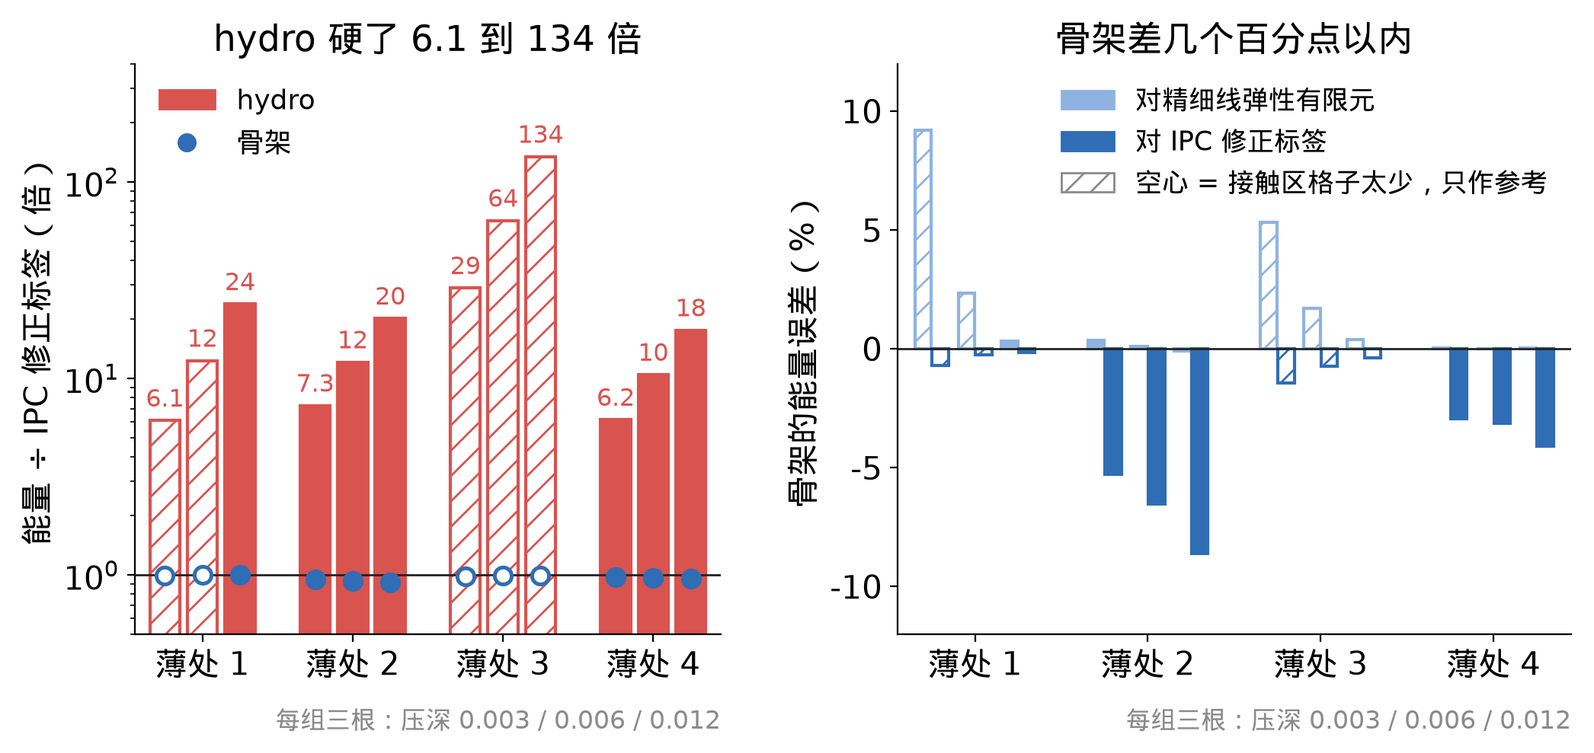
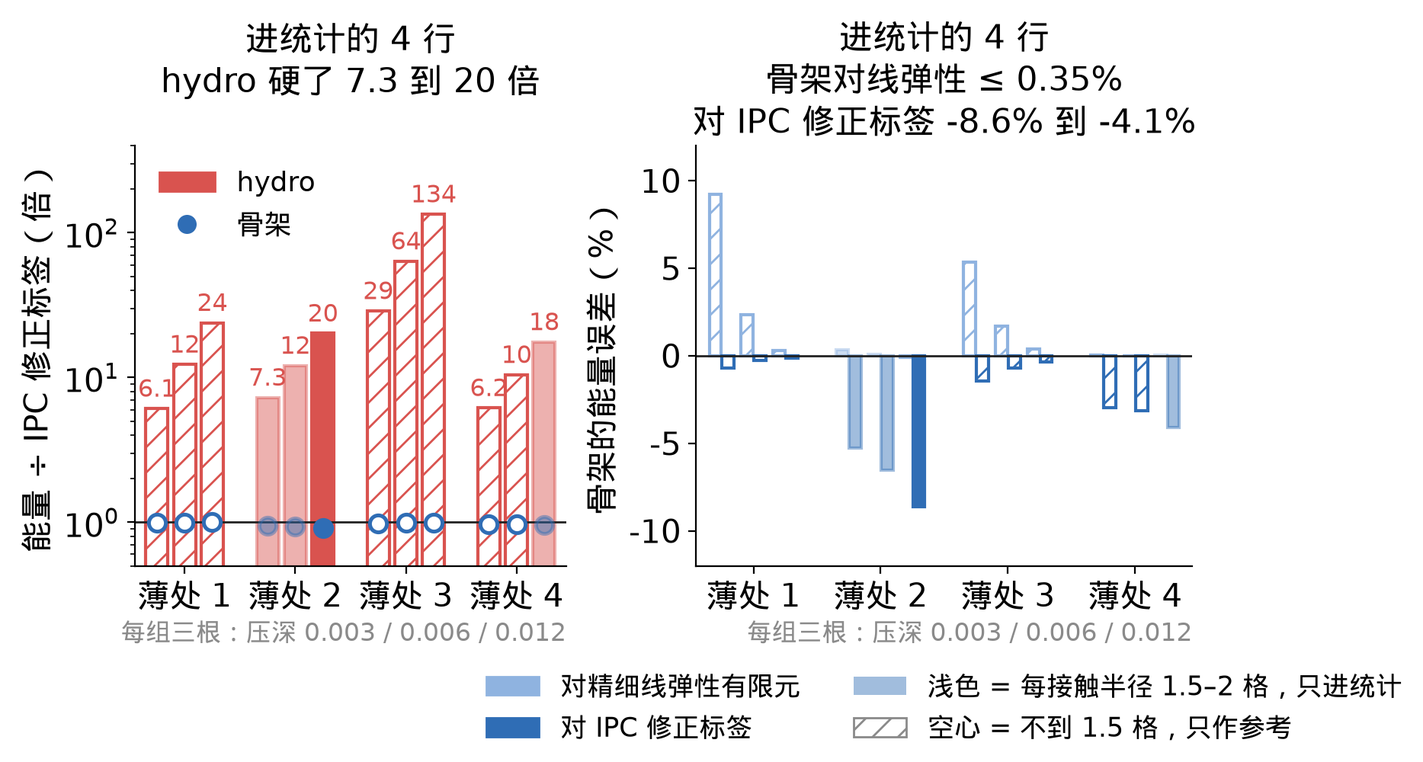
week5: option-C row sets (28 conclusion rows incl. near-double; 47-row stats sentence), regenerated error-bar and dragon figures; rebuilt from sandbox web_week5.md 96ca4af8+

Changed region(s): [[0.0, 0.0303, 0.9941, 0.9707], [0.9009, 0.2123, 0.963, 0.273]]

diff --git a/week5.html b/week5.html
@@ -82,6 +82,8 @@ article .kp { font-weight: 600; color: var(--key); }
 p.concl { color: var(--good); }
 p.expect { color: var(--accent); }
 p.setting { font-size: 13px; }
+.note-src { color: #0d8a7a; }    /* 【ref】【无 ref】【我们定的】整行：出处（draft_md，用户 11-05） */
+.note-cond { color: #c2570c; }   /* 【条件】整行：公式成立的前提 */
 .muted { color: var(--muted); }
 .small { font-size: 13px; }
 blockquote { font-size: 13px; line-height: 1.85; margin: 12px 0 32px; padding: 4px 18px; border-left: 3px solid #b5cbe5;
@@ -240,7 +242,7 @@ html.annot-on #annot-capture { display: block; }
   html.annot-fixed pre, html.annot-fixed mjx-container[display="true"] { overflow: visible; }
 }
 </style>
-<script>window.NIPC_PAGE = "d704f61d9b30";</script>
+<script>window.NIPC_PAGE = "62f501388ee5";</script>
 <script>window.MathJax = {tex: {inlineMath: [["\\(", "\\)"]], displayMath: [["\\[", "\\]"]]}, svg: {fontCache: "global"}};</script>
 <script src="https://cdn.jsdelivr.net/npm/mathjax@3.2.2/es5/tex-svg.js" async></script>
 <a class="skip" href="#content">跳转到正文</a><div id="progress" aria-hidden="true"></div>
@@ -273,7 +275,7 @@ html.annot-on #annot-capture { display: block; }
 <a class="toc-level-2" href="#w6">6. 接下来</a></nav></details></aside><main id="content"><div class="eyebrow">NEURAL-IPC <span>·</span> WEEKLY REPORT</div><article>
 <header class="top"><h1>Week 5（TODO 2026-10-26）</h1><p class="summary">普通形状（兔子、龙）数据集 49 个构型；在兔子上验证骨架（含整体让开项）对线弹性与 IPC 标签、对比 hydro；模型每一步公式的出处（力学、机械、图形学）；理想 test case。</p></header>
 <div class="lead"><p>这周的 TODO 有四条：用普通形状（不对称的，比如兔子）做数据集；用这些形状验证架构，跟 baseline 比；查文献，看模型里的公式有多少是已知的；整理理想情况下的 test case。</p>
-<p>先说结论。数据集做好了，四类一共 49 个构型。架构在兔子上是对的：骨架和精细线弹性有限元、和 IPC 修正标签都差 1% 左右（中位数），hydro 和 IPC 修正标签差 50% 以上。hydro 差的原因也找到了：它本质上是一床弹簧垫，能量随压深涨的速度跟真实物体不一样，所以调参救不回来。模型里的公式大部分有出处，我们自己定的只有几条。能写出精确答案的理想情况，骨架测过的都对上了。</p></div>
+<p>先说结论。数据集做好了，四类一共 49 个构型。架构在兔子上是对的：骨架和精细线弹性有限元、和 IPC 修正标签都差 1% 左右（中位数），hydro 和 IPC 修正标签差 40% 以上。hydro 差的原因也找到了：它本质上是一床弹簧垫，能量随压深涨的速度跟真实物体不一样，所以调参救不回来。模型里的公式大部分有出处，我们自己定的只有几条。能写出精确答案的理想情况，骨架测过的都对上了。</p></div>
 <section id="w1"><h2>普通形状的数据集</h2>
 <p>数据分四类，从简单到复杂排，后一类只比前一类多一个难点，这样哪里出问题能看出来是哪一步带进来的。每个构型压三个深度：0.003、0.006、0.012。</p>
 <div class="tablewrap"><table>
@@ -346,23 +348,23 @@ html.annot-on #annot-capture { display: block; }
 <tbody>
 <tr>
 <td>骨架 vs 精细线弹性有限元</td>
-<td>约 0.7%</td>
-<td>2.2%</td>
+<td>约 0.6%</td>
+<td>1.5%</td>
 </tr>
 <tr>
 <td>骨架 vs IPC 修正标签</td>
 <td>约 0.8%</td>
-<td>20.1%</td>
+<td>5.3%</td>
 </tr>
 <tr>
 <td>hydro vs IPC 修正标签</td>
-<td>约 53%</td>
+<td>约 43%</td>
 <td>943%</td>
 </tr>
 </tbody>
 </table></div>
-<p>统计的是兔子压平块、压球、压兔子里的 54 行（去掉接触格太少、两处接触和接近两处接触的行），兔子压龙不在内。</p>
-<figure style="margin:12px 0"><img src="assets/images/w5t_w5_error_bars.png" width="1525" height="1057" style="width:606px;max-width:100%;height:auto" alt="柱子是能量误差的中位数，短横是最大值，纵轴是对数；最右一组是全部 54 行。骨架不管跟精细线弹性有限元比，还是跟比值修正后的 IPC 标签比，中位数都在 1% 左右；hydro 的中位数是 53%，最坏的一行大了 943%。IPC 标签是我们自己造的，和 hydro 比的正式裁判是解析解（第 5 节），这张图里 hydro 那一栏只作参照。" loading="lazy"><figcaption class="small">柱子是能量误差的中位数，短横是最大值，纵轴是对数；最右一组是全部 54 行。骨架不管跟精细线弹性有限元比，还是跟比值修正后的 IPC 标签比，中位数都在 1% 左右；hydro 的中位数是 53%，最坏的一行大了 943%。IPC 标签是我们自己造的，和 hydro 比的正式裁判是解析解（第 5 节），这张图里 hydro 那一栏只作参照。</figcaption></figure>
+<p>统计的是兔子压平块、压球、压兔子里够格下结论的 28 行：线弹性参照在每个接触半径上至少有 2 个格子，含两处接触挨得很近的行，不含确定是两处接触的行；兔子压龙不在内。放宽到每个接触半径至少 1.5 个格子（47 行），三个中位数是 0.6%、0.8%、51%；骨架对 IPC 修正标签的最大值变成 20.1%，出在一处又薄又会转的地方深压，那一行只有 1.7 个格子。</p>
+<figure style="margin:12px 0"><img src="assets/images/w5t_w5_error_bars.png" width="1587" height="1037" style="width:643px;max-width:100%;height:auto" alt="柱子是进结论的 28 行（含两处接触挨得很近的行）的能量误差中位数，短横是最大值，纵轴是对数；最右一组是这 28 行合起来。前三组里每一行另画一个点：实心是每个接触半径有 2 个以上格子、进结论的行，空心是 1.5–2 个格子、只进统计的行，灰叉是不到 1.5 个格子、不进统计的行。骨架不管跟精细线弹性有限元比，还是跟比值修正后的 IPC 标签比，中位数都在 1% 左右；hydro 的中位数是 43%，最坏的一行大了 943%。IPC 标签是我们自己造的，和 hydro 比的正式裁判是解析解（第 5 节），这张图里 hydro 那一栏只作参照。" loading="lazy"><figcaption class="small">柱子是进结论的 28 行（含两处接触挨得很近的行）的能量误差中位数，短横是最大值，纵轴是对数；最右一组是这 28 行合起来。前三组里每一行另画一个点：实心是每个接触半径有 2 个以上格子、进结论的行，空心是 1.5–2 个格子、只进统计的行，灰叉是不到 1.5 个格子、不进统计的行。骨架不管跟精细线弹性有限元比，还是跟比值修正后的 IPC 标签比，中位数都在 1% 左右；hydro 的中位数是 43%，最坏的一行大了 943%。IPC 标签是我们自己造的，和 hydro 比的正式裁判是解析解（第 5 节），这张图里 hydro 那一栏只作参照。</figcaption></figure>
 <p>骨架本身是线性的。它和 IPC 之间剩下的那一点差，来自大变形，差得最多的是又薄又会转的地方。以后网络要学的就是这一小块。</p>
 <h3 id="w2-4">hydro 为什么不行</h3>
 
@@ -377,8 +379,8 @@ html.annot-on #annot-capture { display: block; }
 </ol></details>
 <p>真实的厚物体（Hertz）是 2.5 次方。hydro 只有一个参数可以调，调参只能把整条曲线放大缩小，改不了次方，所以怎么调都对不上。</p>
 <figure style="margin:12px 0"><img src="assets/images/w5t_w5_energy_powers.png" width="1478" height="1173" style="width:529px;max-width:100%;height:auto" alt="同一个球越压越深，三种模型给的能量画在双对数坐标里，所以次方就是斜率。绿线是真实的厚物体（Hertz）\(\tfrac{8}{15}E^*\sqrt R\,\delta^{5/2}\)，斜率 2.5；蓝线是弹簧垫 \(\pi kR/3\cdot\delta^3\)，红线是 hydro \(\pi kR/6\cdot\delta^3\)，两条斜率都是 3，压得越深涨得比真实越快。两条灰虚线是 hydro 的 k 乘 100、除 100：整条线只上下平移，斜率还是 3，所以调 k 只能在一个压深上对上。图里的 R、E*、k 是为了画出形状取的示意值，不是实测。" loading="lazy"><figcaption class="small">同一个球越压越深，三种模型给的能量画在双对数坐标里，所以次方就是斜率。绿线是真实的厚物体（Hertz）\(\tfrac{8}{15}E^*\sqrt R\,\delta^{5/2}\)，斜率 2.5；蓝线是弹簧垫 \(\pi kR/3\cdot\delta^3\)，红线是 hydro \(\pi kR/6\cdot\delta^3\)，两条斜率都是 3，压得越深涨得比真实越快。两条灰虚线是 hydro 的 k 乘 100、除 100：整条线只上下平移，斜率还是 3，所以调 k 只能在一个压深上对上。图里的 R、E*、k 是为了画出形状取的示意值，不是实测。</figcaption></figure>
-<p>薄的地方 hydro 差得最多：兔子压在龙身上薄的那块（兔子压龙第二批 4 个构型），龙那边的变形几乎都在离接触点很远的地方，是整块在动，hydro 只看重叠区，看不到这部分，结果硬了 6 到 134 倍。骨架有整体那一项，和线弹性参照比，能进结论的行只差千分之一以内；和 IPC 修正标签比差 0.2%–8.6%，剩下的是大变形。</p>
-<figure style="margin:12px 0"><img src="assets/images/w5t_w5_dragon_thin.png" width="2092" height="989" style="width:888px;max-width:100%;height:auto" alt="兔子压在龙身上很薄的四个地方，每处压三个深度。左图是能量除以 IPC 修正标签的倍数：骨架（蓝点）都贴在 1 上，hydro（红柱）是 6 到 134 倍，压得越深差得越多。原因是薄的地方变形主要在离接触点很远的地方，整块在动，hydro 只看两物体的重叠区，看不到这部分。右图把骨架的误差放大来看：对精细线弹性大多在千分之几，对 IPC 标签在 9% 以内，剩下的主要是大变形。斜线空心的柱是接触区格子太少的行，只作参考。" loading="lazy"><figcaption class="small">兔子压在龙身上很薄的四个地方，每处压三个深度。左图是能量除以 IPC 修正标签的倍数：骨架（蓝点）都贴在 1 上，hydro（红柱）是 6 到 134 倍，压得越深差得越多。原因是薄的地方变形主要在离接触点很远的地方，整块在动，hydro 只看两物体的重叠区，看不到这部分。右图把骨架的误差放大来看：对精细线弹性大多在千分之几，对 IPC 标签在 9% 以内，剩下的主要是大变形。斜线空心的柱是接触区格子太少的行，只作参考。</figcaption></figure>
+<p>薄的地方 hydro 差得最多：兔子压在龙身上薄的那块（兔子压龙第二批 4 个构型），龙那边的变形几乎都在离接触点很远的地方，是整块在动，hydro 只看重叠区，看不到这部分，结果硬了 6 到 134 倍。这批线弹性参照的格子偏粗：12 行里只有 1 行每个接触半径有 2 个以上格子、能进结论，3 行有 1.5–2 个格子、只进统计，其余 8 行只作参考。在这 4 行上，骨架有整体那一项，和线弹性参照只差 0.4% 以内，和 IPC 修正标签差 4.1%–8.6%，剩下的是大变形；hydro 硬了 7 到 20 倍。</p>
+<figure style="margin:12px 0"><img src="assets/images/w5t_w5_dragon_thin.png" width="1867" height="1000" style="width:784px;max-width:100%;height:auto" alt="兔子压在龙身上很薄的四个地方，每处压三个深度。左图是能量除以 IPC 修正标签的倍数：骨架（蓝点）都贴在 1 上，hydro（红柱）是 6 到 134 倍，压得越深差得越多。原因是薄的地方变形主要在离接触点很远的地方，整块在动，hydro 只看两物体的重叠区，看不到这部分。右图把骨架的误差放大来看：对精细线弹性大多在千分之几，对 IPC 标签在 9% 以内，剩下的主要是大变形。实心的是每个接触半径有 2 个以上格子、能进结论的行（1 行），浅色的是 1.5–2 个格子、只进统计的行（3 行），斜线空心的是不到 1.5 个格子、只作参考的行（8 行）。" loading="lazy"><figcaption class="small">兔子压在龙身上很薄的四个地方，每处压三个深度。左图是能量除以 IPC 修正标签的倍数：骨架（蓝点）都贴在 1 上，hydro（红柱）是 6 到 134 倍，压得越深差得越多。原因是薄的地方变形主要在离接触点很远的地方，整块在动，hydro 只看两物体的重叠区，看不到这部分。右图把骨架的误差放大来看：对精细线弹性大多在千分之几，对 IPC 标签在 9% 以内，剩下的主要是大变形。实心的是每个接触半径有 2 个以上格子、能进结论的行（1 行），浅色的是 1.5–2 个格子、只进统计的行（3 行），斜线空心的是不到 1.5 个格子、只作参考的行（8 行）。</figcaption></figure>
 <h3 id="w2-5">动态</h3>
 
 <p>让软球带着速度撞平块。撞得够慢的话，动能会全部变成接触能，最大压深跟速度的关系是 \(v^{2/n}\)，n 是能量的次方。真实情况 n = 2.5，应该是 \(v^{0.8}\)。我们测出来是 \(v^{0.7994}\)。hydro 的 n = 3，理论上是 \(v^{0.667}\)（把 hydro 实际的能量曲线代进能量守恒，算出来是 \(v^{0.655}\)），所以换一个速度，hydro 的误差就会变。</p>
@@ -386,10 +388,10 @@ html.annot-on #annot-capture { display: block; }
 <section id="w3"><h2>哪些公式是已知的：我们方法的推导</h2>
 <p>模型里的每一步都查了出处，直接标在那一步的公式下面，标法统一如下：</p>
 <ul>
-<li><strong>【ref】</strong>：有出处，直接写出是哪篇文献、哪个式子。</li>
-<li><strong>【无 ref】</strong>：没找到出处，写它是从哪一步、用什么推出来的。</li>
-<li><strong>【我们定的】</strong>：建模时我们自己做的选择，写理由。</li>
-<li><strong>【条件】</strong>：这一步成立需要的前提，没有前提的就不写。</li>
+<li><span class="note-src"><strong>【ref】</strong>：有出处，直接写出是哪篇文献、哪个式子。</span></li>
+<li><span class="note-src"><strong>【无 ref】</strong>：没找到出处，写它是从哪一步、用什么推出来的。</span></li>
+<li><span class="note-src"><strong>【我们定的】</strong>：建模时我们自己做的选择，写理由。</span></li>
+<li><span class="note-cond"><strong>【条件】</strong>：这一步成立需要的前提，没有前提的就不写。</span></li>
 </ul>
 <p>这里列的出处来自 Notion 里 TODO 3 和 TODO 4 的调研记录，以及这周在力学、机械工程、图形学里补的调研；式号都对着原文核过，核不到原文的注明了。兔子上出问题的地方，全都在标了【我们定的】的那几步里。</p>
 <p>这一节是我们自己方法的推导，下一节是这个方向上已有的公式。</p>
@@ -398,88 +400,88 @@ html.annot-on #annot-capture { display: block; }
 
 <p>表面上某一点陷下去多少，等于各处压强造成的下陷叠加起来，单个点力造成的下陷随距离按 \(1/r\) 衰减。</p>
 <figure style="margin:12px 0"><img src="assets/images/w5t_fig03_boussinesq_1_over_r.png" width="1215" height="691" style="width:557px;max-width:100%;height:auto" alt="这张图说明 Boussinesq 点力解的核心：在弹性半空间表面按住一个点，周围一圈都跟着陷下去，离得越远陷得越少。红色箭头是作用在一点上的点力 \(F\)；米色是半空间，上方灰色虚线是它原来的表面。距离 \(r\) 处表面下沉 \(u\)（蓝色标注），到距离 \(2r\) 处只下沉 \(u/2\)：下沉和距离成反比，正对应 \(u=P/(\pi E^*s)\) 里的 \(1/s\)。" loading="lazy"><figcaption class="small">这张图说明 Boussinesq 点力解的核心：在弹性半空间表面按住一个点，周围一圈都跟着陷下去，离得越远陷得越少。红色箭头是作用在一点上的点力 \(F\)；米色是半空间，上方灰色虚线是它原来的表面。距离 \(r\) 处表面下沉 \(u\)（蓝色标注），到距离 \(2r\) 处只下沉 \(u/2\)：下沉和距离成反比，正对应 \(u=P/(\pi E^*s)\) 里的 \(1/s\)。</figcaption></figure>
-<p>【ref】Popov, Heß &amp; Willert, <em>Handbook of Contact Mechanics: Exact Solutions of Axisymmetric Contact Problems</em>, Springer 2019, 式 2.2（点力解）、式 2.3（叠加）。  </p>
-<p>【条件】把物体当成无限大、表面是平的一块（手册原话是表面坡度 \(\theta\ll1\)，误差约为 \(\theta^2\)）。物体有限大、会整体弯的时候不准，由第 5 步补上。</p>
+<p><span class="note-src">【ref】Popov, Heß &amp; Willert, <em>Handbook of Contact Mechanics: Exact Solutions of Axisymmetric Contact Problems</em>, Springer 2019, 式 2.2（点力解）、式 2.3（叠加）。</span>  </p>
+<p><span class="note-cond">【条件】把物体当成无限大、表面是平的一块（手册原话是表面坡度 \(\theta\ll1\)，误差约为 \(\theta^2\)）。物体有限大、会整体弯的时候不准，由第 5 步补上。</span></p>
 <h3 id="w3-2">第 2 步：两边的软度相加</h3>
 
 <p>两个弹性体可以换成「一个刚的压头加一个合成模量」：\(\dfrac1{E^*}=\dfrac{1-\nu_A^2}{E_A}+\dfrac{1-\nu_B^2}{E_B}\)。这就是两边的柔度能直接相加 \(C=C^A+C^B\) 的来源。</p>
-<p>【ref】Popov, Heß &amp; Willert, <em>Handbook of Contact Mechanics</em>, Springer 2019, 式 2.1。  </p>
-<p>【条件】没有摩擦。</p>
+<p><span class="note-src">【ref】Popov, Heß &amp; Willert, <em>Handbook of Contact Mechanics</em>, Springer 2019, 式 2.1。</span>  </p>
+<p><span class="note-cond">【条件】没有摩擦。</span></p>
 <h3 id="w3-3">第 3 步：压力是一个能量的最大值点</h3>
 
 <p>每一格要么压着（有压强，而且正好让开），要么没压着（没压强，还留着缝），压强只能往外推不能往里拉。满足这几条的压强，正好让下面这个式子取到最大：</p>
 <p>\[\color{#c0392b}{U=\max_{p\ge0}\;h^2\Big[p^\top w-\tfrac12p^\top Cp\Big]}\]</p>
-<p>【ref】Bemporad &amp; Paggi, "Optimization algorithms for the solution of the frictionless normal contact between rough surfaces", <em>International Journal of Solids and Structures</em>, 2015, 式 16–19。文中写的是「余能在 \(p\ge0\) 下的最小点」，我们的 U 是它取负号。Kalker 的原文没有核，是经这篇转述的。  </p>
-<p>【条件】C 对称正定。</p>
+<p><span class="note-src">【ref】Bemporad &amp; Paggi, "Optimization algorithms for the solution of the frictionless normal contact between rough surfaces", <em>International Journal of Solids and Structures</em>, 2015, 式 16–19。文中写的是「余能在 \(p\ge0\) 下的最小点」，我们的 U 是它取负号。Kalker 的原文没有核，是经这篇转述的。</span>  </p>
+<p><span class="note-cond">【条件】C 对称正定。</span></p>
 <h3 id="w3-4">第 4 步：这个最大值就是弹性能，对它求导就是力</h3>
 
 <figure style="margin:12px 0"><img src="assets/images/w5t_w5_cell_energy_max.png" width="2510" height="1244" style="width:847px;max-width:100%;height:auto" alt="两幅图都是单独一格的 \(f(p)=pw-\tfrac12cp^2\)；灰色区域是 \(p&lt;0\)（往里拉），不允许，所以只看蓝色实线。左边这一格叠进去了（w &gt; 0）：抛物线在 \(p=w/c\) 处最高，最大值 \(w^2/2c\)，正好是一根柔度为 c 的弹簧被压缩 w 存的能量。右边这一格还留着缝（w &lt; 0）：曲线从 \(p=0\) 一路往下，最大值就在 \(p=0\)、\(f=0\)，这一格不受压。" loading="lazy"><figcaption class="small">两幅图都是单独一格的 \(f(p)=pw-\tfrac12cp^2\)；灰色区域是 \(p&lt;0\)（往里拉），不允许，所以只看蓝色实线。左边这一格叠进去了（w &gt; 0）：抛物线在 \(p=w/c\) 处最高，最大值 \(w^2/2c\)，正好是一根柔度为 c 的弹簧被压缩 w 存的能量。右边这一格还留着缝（w &lt; 0）：曲线从 \(p=0\) 一路往下，最大值就在 \(p=0\)、\(f=0\)，这一格不受压。</figcaption></figure>
 <ol>
 <li>
 <p>先只看一格，\(f(p)=pw-\tfrac12cp^2\)，求导令它等于 0，得到 \(p=w/c\)，也就是刚好把这一格让开需要的压强。<br />
-    【无 ref】对第 3 步的式子求极值。</p>
+    <span class="note-src">【无 ref】对第 3 步的式子求极值。</span></p>
 </li>
 <li>
 <p>把它代回去，\(f=\dfrac{w^2}{c}-\dfrac{w^2}{2c}=\dfrac{w^2}{2c}\)，正好是一根弹簧压缩 w 时存的能量。<br />
-    【无 ref】代数代入。</p>
+    <span class="note-src">【无 ref】代数代入。</span></p>
 </li>
 <li>
 <p>很多格的时候也一样，压着的那些格满足 \(Cp=w\)，代回去得到 \(U=\tfrac12h^2p^\top Cp\)，也就是弹性能。<br />
-    【ref】Bemporad &amp; Paggi 2015, 式 18。<br />
-    【条件】同第 3 步。</p>
+    <span class="note-src">【ref】Bemporad &amp; Paggi 2015, 式 18。</span><br />
+    <span class="note-cond">【条件】同第 3 步。</span></p>
 </li>
 <li>
 <p>U 对 \(w_i\) 求导时，因为在最大值点上 U 对 p 的导数已经是 0，所以只剩下 \(\partial U/\partial w_i=h^2p_i\)，这就是这一格的力。<br />
-    【ref】包络定理，Milgrom &amp; Segal, "Envelope theorems for arbitrary choice sets", <em>Econometrica</em> 70(2), 2002, 推论 4。用到我们 \(p\ge0\) 这个集合上是我们的推断。Notion 里用脚本核过：离散问题的「力 = 能量导数」误差在 \(3\times10^{-10}\) 以内。<br />
-    【条件】C 正定。</p>
+    <span class="note-src">【ref】包络定理，Milgrom &amp; Segal, "Envelope theorems for arbitrary choice sets", <em>Econometrica</em> 70(2), 2002, 推论 4。用到我们 \(p\ge0\) 这个集合上是我们的推断。Notion 里用脚本核过：离散问题的「力 = 能量导数」误差在 \(3\times10^{-10}\) 以内。</span><br />
+    <span class="note-cond">【条件】C 正定。</span></p>
 </li>
 </ol>
 <h3 id="w3-5">第 5 步：加上整体让开的那部分</h3>
 
 <p>真实的柔度等于无限大物体的柔度再加一个修正，我们把这个修正写成「整片平移加两个方向歪」，即 \(C=C_{\text{局部}}+\Phi A\Phi^\top\)，\(\Phi=[1,x,z]\)。A 是把有限元的整体柔度投影到这三个自由度上得到的。</p>
-<p>【ref】把整个结构的刚度缩到少数自由度上，是 Guyan, "Reduction of stiffness and mass matrices", <em>AIAA Journal</em> 3(2), 1965, p.380 的静力凝聚（原文付费，只核了书目）。没有固定面的物体（碰撞那一级）的柔度矩阵，见 Craig &amp; Chang, NASA CR-2781, 1977, 式 140–149。  </p>
-<p>【ref】旁证：有限大物体的 Green 函数 = Boussinesq 解 + 一个常数，见 Argatov, <em>JMPS</em> 70, 2014, 式 24；层很厚的时候，有限厚度对点力解的一阶修正也是一个跟距离无关的常数，见 Argatov &amp; Sabina, "Asymptotic analysis of the substrate effect for an arbitrary indenter", <em>Q. J. Mech. Appl. Math.</em> 66(1), 2013, 式 2.5–2.8。这支持「局部加一个整体项」的写法；两个歪的项文献没推到。  </p>
-<p>【我们定的】只取平移加两个方向歪这三个自由度，理由是实测够用。  </p>
-<p>【条件】一个物体上只有一处接触；有好几处接触时，要换成片和片之间的矩阵。</p>
+<p><span class="note-src">【ref】把整个结构的刚度缩到少数自由度上，是 Guyan, "Reduction of stiffness and mass matrices", <em>AIAA Journal</em> 3(2), 1965, p.380 的静力凝聚（原文付费，只核了书目）。没有固定面的物体（碰撞那一级）的柔度矩阵，见 Craig &amp; Chang, NASA CR-2781, 1977, 式 140–149。</span>  </p>
+<p><span class="note-src">【ref】旁证：有限大物体的 Green 函数 = Boussinesq 解 + 一个常数，见 Argatov, <em>JMPS</em> 70, 2014, 式 24；层很厚的时候，有限厚度对点力解的一阶修正也是一个跟距离无关的常数，见 Argatov &amp; Sabina, "Asymptotic analysis of the substrate effect for an arbitrary indenter", <em>Q. J. Mech. Appl. Math.</em> 66(1), 2013, 式 2.5–2.8。这支持「局部加一个整体项」的写法；两个歪的项文献没推到。</span>  </p>
+<p><span class="note-src">【我们定的】只取平移加两个方向歪这三个自由度，理由是实测够用。</span>  </p>
+<p><span class="note-cond">【条件】一个物体上只有一处接触；有好几处接触时，要换成片和片之间的矩阵。</span></p>
 <h3 id="w3-6">第 6 步：每一格叠进去多少</h3>
 
 <p>沿法向量两个表面的距离，这一格比最近点多隔开 \(s_i\)，所以要让开的量是 \(w_i=\delta-s_i\)。</p>
 <figure style="margin:12px 0"><img src="assets/images/w5t_w5_gap_w.png" width="1588" height="1172" style="width:569px;max-width:100%;height:auto" alt="上面橙色是物体 A，下面绿色是物体 B，两个弯曲的表面叠在一起，红色是叠进去的部分，竖直方向就是法向。最近点（正中间）两面叠进 δ，两条灰虚线是 B 的最高点和 A 的最低点。到第 i 格，A 的表面比它的最低点抬高了 \(f_A\)，B 的表面比它的最高点降低了 \(f_B\)，两段加起来 \(s_i=f_A+f_B\) 就是这一格比最近点多隔开的量，剩下的红色一段就是这一格要让开的 \(w_i=\delta-s_i\)。最下面一排是接触区铺的小方格，第 i 格标蓝。" loading="lazy"><figcaption class="small">上面橙色是物体 A，下面绿色是物体 B，两个弯曲的表面叠在一起，红色是叠进去的部分，竖直方向就是法向。最近点（正中间）两面叠进 δ，两条灰虚线是 B 的最高点和 A 的最低点。到第 i 格，A 的表面比它的最低点抬高了 \(f_A\)，B 的表面比它的最高点降低了 \(f_B\)，两段加起来 \(s_i=f_A+f_B\) 就是这一格比最近点多隔开的量，剩下的红色一段就是这一格要让开的 \(w_i=\delta-s_i\)。最下面一排是接触区铺的小方格，第 i 格标蓝。</figcaption></figure>
-<p>【我们定的】没找到出处，是我们定的量法。  </p>
-<p>【条件】两个表面在接触区差不多平行。法向转得快的地方（比如耳朵）和凹进去的地方会不太准。</p>
+<p><span class="note-src">【我们定的】没找到出处，是我们定的量法。</span>  </p>
+<p><span class="note-cond">【条件】两个表面在接触区差不多平行。法向转得快的地方（比如耳朵）和凹进去的地方会不太准。</span></p>
 <h3 id="w3-7">第 7 步：网络改哪里</h3>
 
 <p>网络只把每一格的缝隙放大或缩小一点，不去改柔度 C。</p>
-<p>【我们定的】理由是大变形集中在接触区附近，远一点的地方变形小，线弹性是准的。  </p>
-<p>【条件】两处接触不能挨得太近，挨得近的情况还没测。</p>
+<p><span class="note-src">【我们定的】理由是大变形集中在接触区附近，远一点的地方变形小，线弹性是准的。</span>  </p>
+<p><span class="note-cond">【条件】两处接触不能挨得太近，挨得近的情况还没测。</span></p>
 <h3 id="w3-8">第 8 步：标签的比值修正</h3>
 
 <p>\(U_{\text{标签}}=U_{\text{IPC}}\times U_{\text{好单元}}/U_{\text{简单单元}}\)，见第 1 节。</p>
-<p>【我们定的】理由是在同一张网格上，简单单元偏硬的原因对线弹性和对 IPC 是一样的；实测修正以后，不同网格的结果收到了一起。  </p>
-<p>【条件】非线性不能太大，太大时要另外核。</p></section>
+<p><span class="note-src">【我们定的】理由是在同一张网格上，简单单元偏硬的原因对线弹性和对 IPC 是一样的；实测修正以后，不同网格的结果收到了一起。</span>  </p>
+<p><span class="note-cond">【条件】非线性不能太大，太大时要另外核。</span></p></section>
 <section id="w4"><h2>这个方向上已有的公式</h2>
 <p>下面是接触力学、结构力学和图形学里跟我们直接有关的结果，默认前提跟上一节一样。</p>
 <h3 id="w4-1">平底圆柱压进去</h3>
 
 <p>半径 a 的平底压进软的平面，压深 δ，力是 \(F=2E^*a\,\delta\)。因为底面大小不变，所以力跟压深成正比；边缘处的压强按 \(1/\sqrt{a^2-r^2}\) 趋于无穷。</p>
-<p>【ref】Popov, Heß &amp; Willert, <em>Handbook of Contact Mechanics</em>, Springer 2019, 式 2.20–2.22。  </p>
-<p>【条件】压头是刚的（手册原文强调只对刚性压头严格成立）。</p>
+<p><span class="note-src">【ref】Popov, Heß &amp; Willert, <em>Handbook of Contact Mechanics</em>, Springer 2019, 式 2.20–2.22。</span>  </p>
+<p><span class="note-cond">【条件】压头是刚的（手册原文强调只对刚性压头严格成立）。</span></p>
 <p>带圆角的平底也有精确解。</p>
-<p>【ref】Popov, Heß &amp; Willert, <em>Handbook of Contact Mechanics</em>, Springer 2019, 式 2.97–2.99。</p>
+<p><span class="note-src">【ref】Popov, Heß &amp; Willert, <em>Handbook of Contact Mechanics</em>, Springer 2019, 式 2.97–2.99。</span></p>
 <h3 id="w4-2">球压进去（Hertz）</h3>
 
 <ol>
 <li>
 <p>球压进平面，力是 \(F=\tfrac43E^*\sqrt R\,\delta^{3/2}\)。压得越深，接触面积也越大，所以力比线性涨得快。<br />
-    【ref】Popov, Heß &amp; Willert, <em>Handbook of Contact Mechanics</em>, Springer 2019, 式 2.34（式 2.29 是用接触半径写的同一个力）。</p>
+    <span class="note-src">【ref】Popov, Heß &amp; Willert, <em>Handbook of Contact Mechanics</em>, Springer 2019, 式 2.34（式 2.29 是用接触半径写的同一个力）。</span></p>
 </li>
 <li>
 <p>对力积分得到能量：\(U=\int_0^\delta F\,d\delta&#x27;=\tfrac43E^*\sqrt R\cdot\tfrac25\delta^{5/2}=\tfrac{8}{15}E^*\sqrt R\,\delta^{5/2}\)。<br />
-    【ref】Popov, Heß &amp; Willert 2019, 式 2.35。</p>
+    <span class="note-src">【ref】Popov, Heß &amp; Willert 2019, 式 2.35。</span></p>
 </li>
 <li>
 <p>压得越深越硬，对任意形状的接触区都成立。<br />
-    【ref】Barber, "Bounds on the electrical resistance between contacting elastic rough bodies", <em>Proc. R. Soc. A</em> 459, 2003, 定理 4.1。</p>
+    <span class="note-src">【ref】Barber, "Bounds on the electrical resistance between contacting elastic rough bodies", <em>Proc. R. Soc. A</em> 459, 2003, 定理 4.1。</span></p>
 </li>
 </ol>
 <h3 id="w4-3">薄层：弹簧垫</h3>
@@ -489,54 +491,54 @@ html.annot-on #annot-capture { display: block; }
 <ol>
 <li>
 <p>底面能滑动的时候，每单位面积的刚度是 \(k=E&#x27;/t\)，\(E&#x27;=E/(1-\nu^2)\)，t 是层厚。<br />
-    【ref】Ciavarella &amp; Papangelo, "Ultrastrong adhesion in the contact with thin elastic layers on a rigid foundation", arXiv:1801.00677, 2018, 式 3（原文式 3 印刷漏了 \(1/t\)，可由同文式 5 反推）。<br />
-    【条件】层厚比接触圈小得多。</p>
+    <span class="note-src">【ref】Ciavarella &amp; Papangelo, "Ultrastrong adhesion in the contact with thin elastic layers on a rigid foundation", arXiv:1801.00677, 2018, 式 3（原文式 3 印刷漏了 \(1/t\)，可由同文式 5 反推）。</span><br />
+    <span class="note-cond">【条件】层厚比接触圈小得多。</span></p>
 </li>
 <li>
 <p>底面粘住的时候，\(k=\dfrac{E(1-\nu)}{(1+\nu)(1-2\nu)\,t}\)。\(\nu\to0.5\) 时 \(k\to\infty\)，因为材料不可压、又被底座夹住，这时弹簧垫模型就失效了。<br />
-    【ref】Argatov, Mishuris &amp; Popov, "Asymptotic modelling of the JKR adhesion contact for a thin elastic layer", <em>Q. J. Mech. Appl. Math.</em> 69(2), 2016, 式 13。<br />
-    【条件】层厚比接触圈小得多，材料不能接近不可压。</p>
+    <span class="note-src">【ref】Argatov, Mishuris &amp; Popov, "Asymptotic modelling of the JKR adhesion contact for a thin elastic layer", <em>Q. J. Mech. Appl. Math.</em> 69(2), 2016, 式 13。</span><br />
+    <span class="note-cond">【条件】层厚比接触圈小得多，材料不能接近不可压。</span></p>
 </li>
 <li>
 <p>球压深 δ 时，离中心 r 的地方弹簧压缩了 \(\delta-\dfrac{r^2}{2R}\)，存的能量是 \(\tfrac12k\big(\delta-\tfrac{r^2}{2R}\big)^2\)。<br />
-    【无 ref】由第 1 步和球面的几何推出。</p>
+    <span class="note-src">【无 ref】由第 1 步和球面的几何推出。</span></p>
 </li>
 <li>
 <p>在面积上积分，换元方法跟上一节 hydro 的推导一样，得到 \(U=\dfrac{\pi kR}{3}\delta^3\)。<br />
-    【ref】力 \(F=\pi kR\delta^2\) 见 Argatov, Mishuris &amp; Popov 2016, 式 28–30（取粘附项为 0），能量是对它积分。</p>
+    <span class="note-src">【ref】力 \(F=\pi kR\delta^2\) 见 Argatov, Mishuris &amp; Popov 2016, 式 28–30（取粘附项为 0），能量是对它积分。</span></p>
 </li>
 </ol>
 <p>拿这个跟上一节比一下，hydro 在球上算出来是 \(\tfrac{\pi kR}{6}\delta^3\)，跟弹簧垫的形式完全一样，只差一个系数。所以 hydro 其实就是一床弹簧垫，对薄层是对的，对厚物体就不对了。</p>
-<p>【ref】「hydro 是弹簧垫」这个说法 Elandt 2019 §II 自己就写了；\(1/6\) 对 \(1/3\) 的系数对比没找到出处，由上一节和上面第 4 步对比得出。</p>
+<p><span class="note-src">【ref】「hydro 是弹簧垫」这个说法 Elandt 2019 §II 自己就写了；\(1/6\) 对 \(1/3\) 的系数对比没找到出处，由上一节和上面第 4 步对比得出。</span></p>
 <h3 id="w4-4">两处接触互相影响</h3>
 
 <p>一处受力会把远处的表面也压下去一点（就是第 1 步那个点力的解），所以每一处的压深等于自己压的加上别处带下去的。</p>
-<p>【ref】逐点叠加点力解是 Ciavarella, Delfine &amp; Demelio, <em>JMPS</em> 54(12), 2006；Ciavarella, Greenwood &amp; Paggi, "Inclusion of 'interaction' in the Greenwood and Williamson contact theory", <em>Wear</em> 265, 2008, pp.729–734 把它化成均匀的形式。  </p>
-<p>【条件】只取一阶相互作用（点力的远场近似）。</p>
+<p><span class="note-src">【ref】逐点叠加点力解是 Ciavarella, Delfine &amp; Demelio, <em>JMPS</em> 54(12), 2006；Ciavarella, Greenwood &amp; Paggi, "Inclusion of 'interaction' in the Greenwood and Williamson contact theory", <em>Wear</em> 265, 2008, pp.729–734 把它化成均匀的形式。</span>  </p>
+<p><span class="note-cond">【条件】只取一阶相互作用（点力的远场近似）。</span></p>
 <p>我们测过，两处挨得近的时候这个近似差 0.7% 到 0.8%，而在整个接触面上铺格子算只差 0.04%，所以我们不用手写的耦合公式。另外，Ciavarella 2008 里的「均匀下沉项」是半空间里格与格之间的耦合，对应的是我们 \(C_{\text{局部}}\) 里已经有的部分，不是整体项；不能在 \(C_{\text{局部}}\) 之外再加一遍。</p>
 <h3 id="w4-5">碰撞时最大压深怎么随速度变</h3>
 
 <ol>
 <li>
 <p>撞得够慢的话，动能会全部变成接触能：\(\tfrac12mv^2=\tfrac{8}{15}E^*\sqrt R\,\delta_{\max}^{5/2}\)。<br />
-    【ref】Popov, Heß &amp; Willert 2019, 式 2.36。<br />
-    【条件】手册原文：撞击速度远小于弹性波速，弹性波带走的能量可以忽略。有限大的物体还要撞击时间比物体自己振一下的时间长得多（Love《A Treatise on the Mathematical Theory of Elasticity》第 4 版第 139 节）；留在物体振动里的能量约为「速度 ÷ 波速」的 1/50（Rayleigh 1906, <em>Phil. Mag.</em> 11）。</p>
+    <span class="note-src">【ref】Popov, Heß &amp; Willert 2019, 式 2.36。</span><br />
+    <span class="note-cond">【条件】手册原文：撞击速度远小于弹性波速，弹性波带走的能量可以忽略。有限大的物体还要撞击时间比物体自己振一下的时间长得多（Love《A Treatise on the Mathematical Theory of Elasticity》第 4 版第 139 节）；留在物体振动里的能量约为「速度 ÷ 波速」的 1/50（Rayleigh 1906, <em>Phil. Mag.</em> 11）。</span></p>
 </li>
 <li>
 <p>两边开 2.5 次方，得到 \(\delta_{\max}\propto v^{0.8}\)，接触时间 \(t_S\approx2.94\,\delta_{\max}/v\)。<br />
-    【ref】Popov, Heß &amp; Willert 2019, 式 2.37；一般形状见式 2.69–2.70。</p>
+    <span class="note-src">【ref】Popov, Heß &amp; Willert 2019, 式 2.37；一般形状见式 2.69–2.70。</span></p>
 </li>
 </ol>
 <h3 id="w4-6">把大物体缩成几个自由度</h3>
 
 <p>静力凝聚只留下少数几个自由度，其余的按静力平衡消掉，我们的整体项 A 就是这么来的。</p>
-<p>【ref】Guyan, "Reduction of stiffness and mass matrices", <em>AIAA Journal</em> 3(2), 1965, p.380。  </p>
-<p>【条件】线弹性，被消掉的那部分没有惯性（跟上面「撞得够慢」是一回事）。</p>
+<p><span class="note-src">【ref】Guyan, "Reduction of stiffness and mass matrices", <em>AIAA Journal</em> 3(2), 1965, p.380。</span>  </p>
+<p><span class="note-cond">【条件】线弹性，被消掉的那部分没有惯性（跟上面「撞得够慢」是一回事）。</span></p>
 <p>在这个基础上再留几个振动模态，动力学也能缩。以后如果想让粗模型自己带上弯曲，比如把耳朵的弯交给粗模型来管，用的就是这个。</p>
-<p>【ref】Craig &amp; Bampton, "Coupling of substructures for dynamic analyses", <em>AIAA Journal</em> 6(7), 1968, pp.1313–1319（原文付费，只核了书目）。  </p>
-<p>【条件】线弹性。</p>
+<p><span class="note-src">【ref】Craig &amp; Bampton, "Coupling of substructures for dynamic analyses", <em>AIAA Journal</em> 6(7), 1968, pp.1313–1319（原文付费，只核了书目）。</span>  </p>
+<p><span class="note-cond">【条件】线弹性。</span></p>
 <p>物体在动的时候没有固定面，整体柔度要用「惯性释放」来定义：先把载荷减掉刚体加速度对应的惯性力，变成自平衡的载荷，再只加最少的约束去解。</p>
-<p>【ref】Cavaliere 等, "Nonintrusive reduced order model for parametric solutions of inertia relief problems", arXiv:2012.01961, 2020, §3 式 11–20；矩阵写法见 Craig &amp; Chang, NASA CR-2781, 1977, 式 140–149。</p>
+<p><span class="note-src">【ref】Cavaliere 等, "Nonintrusive reduced order model for parametric solutions of inertia relief problems", arXiv:2012.01961, 2020, §3 式 11–20；矩阵写法见 Craig &amp; Chang, NASA CR-2781, 1977, 式 140–149。</span></p>
 <h3 id="w4-7">图形学和机械里最接近的做法</h3>
 
 <ul>
